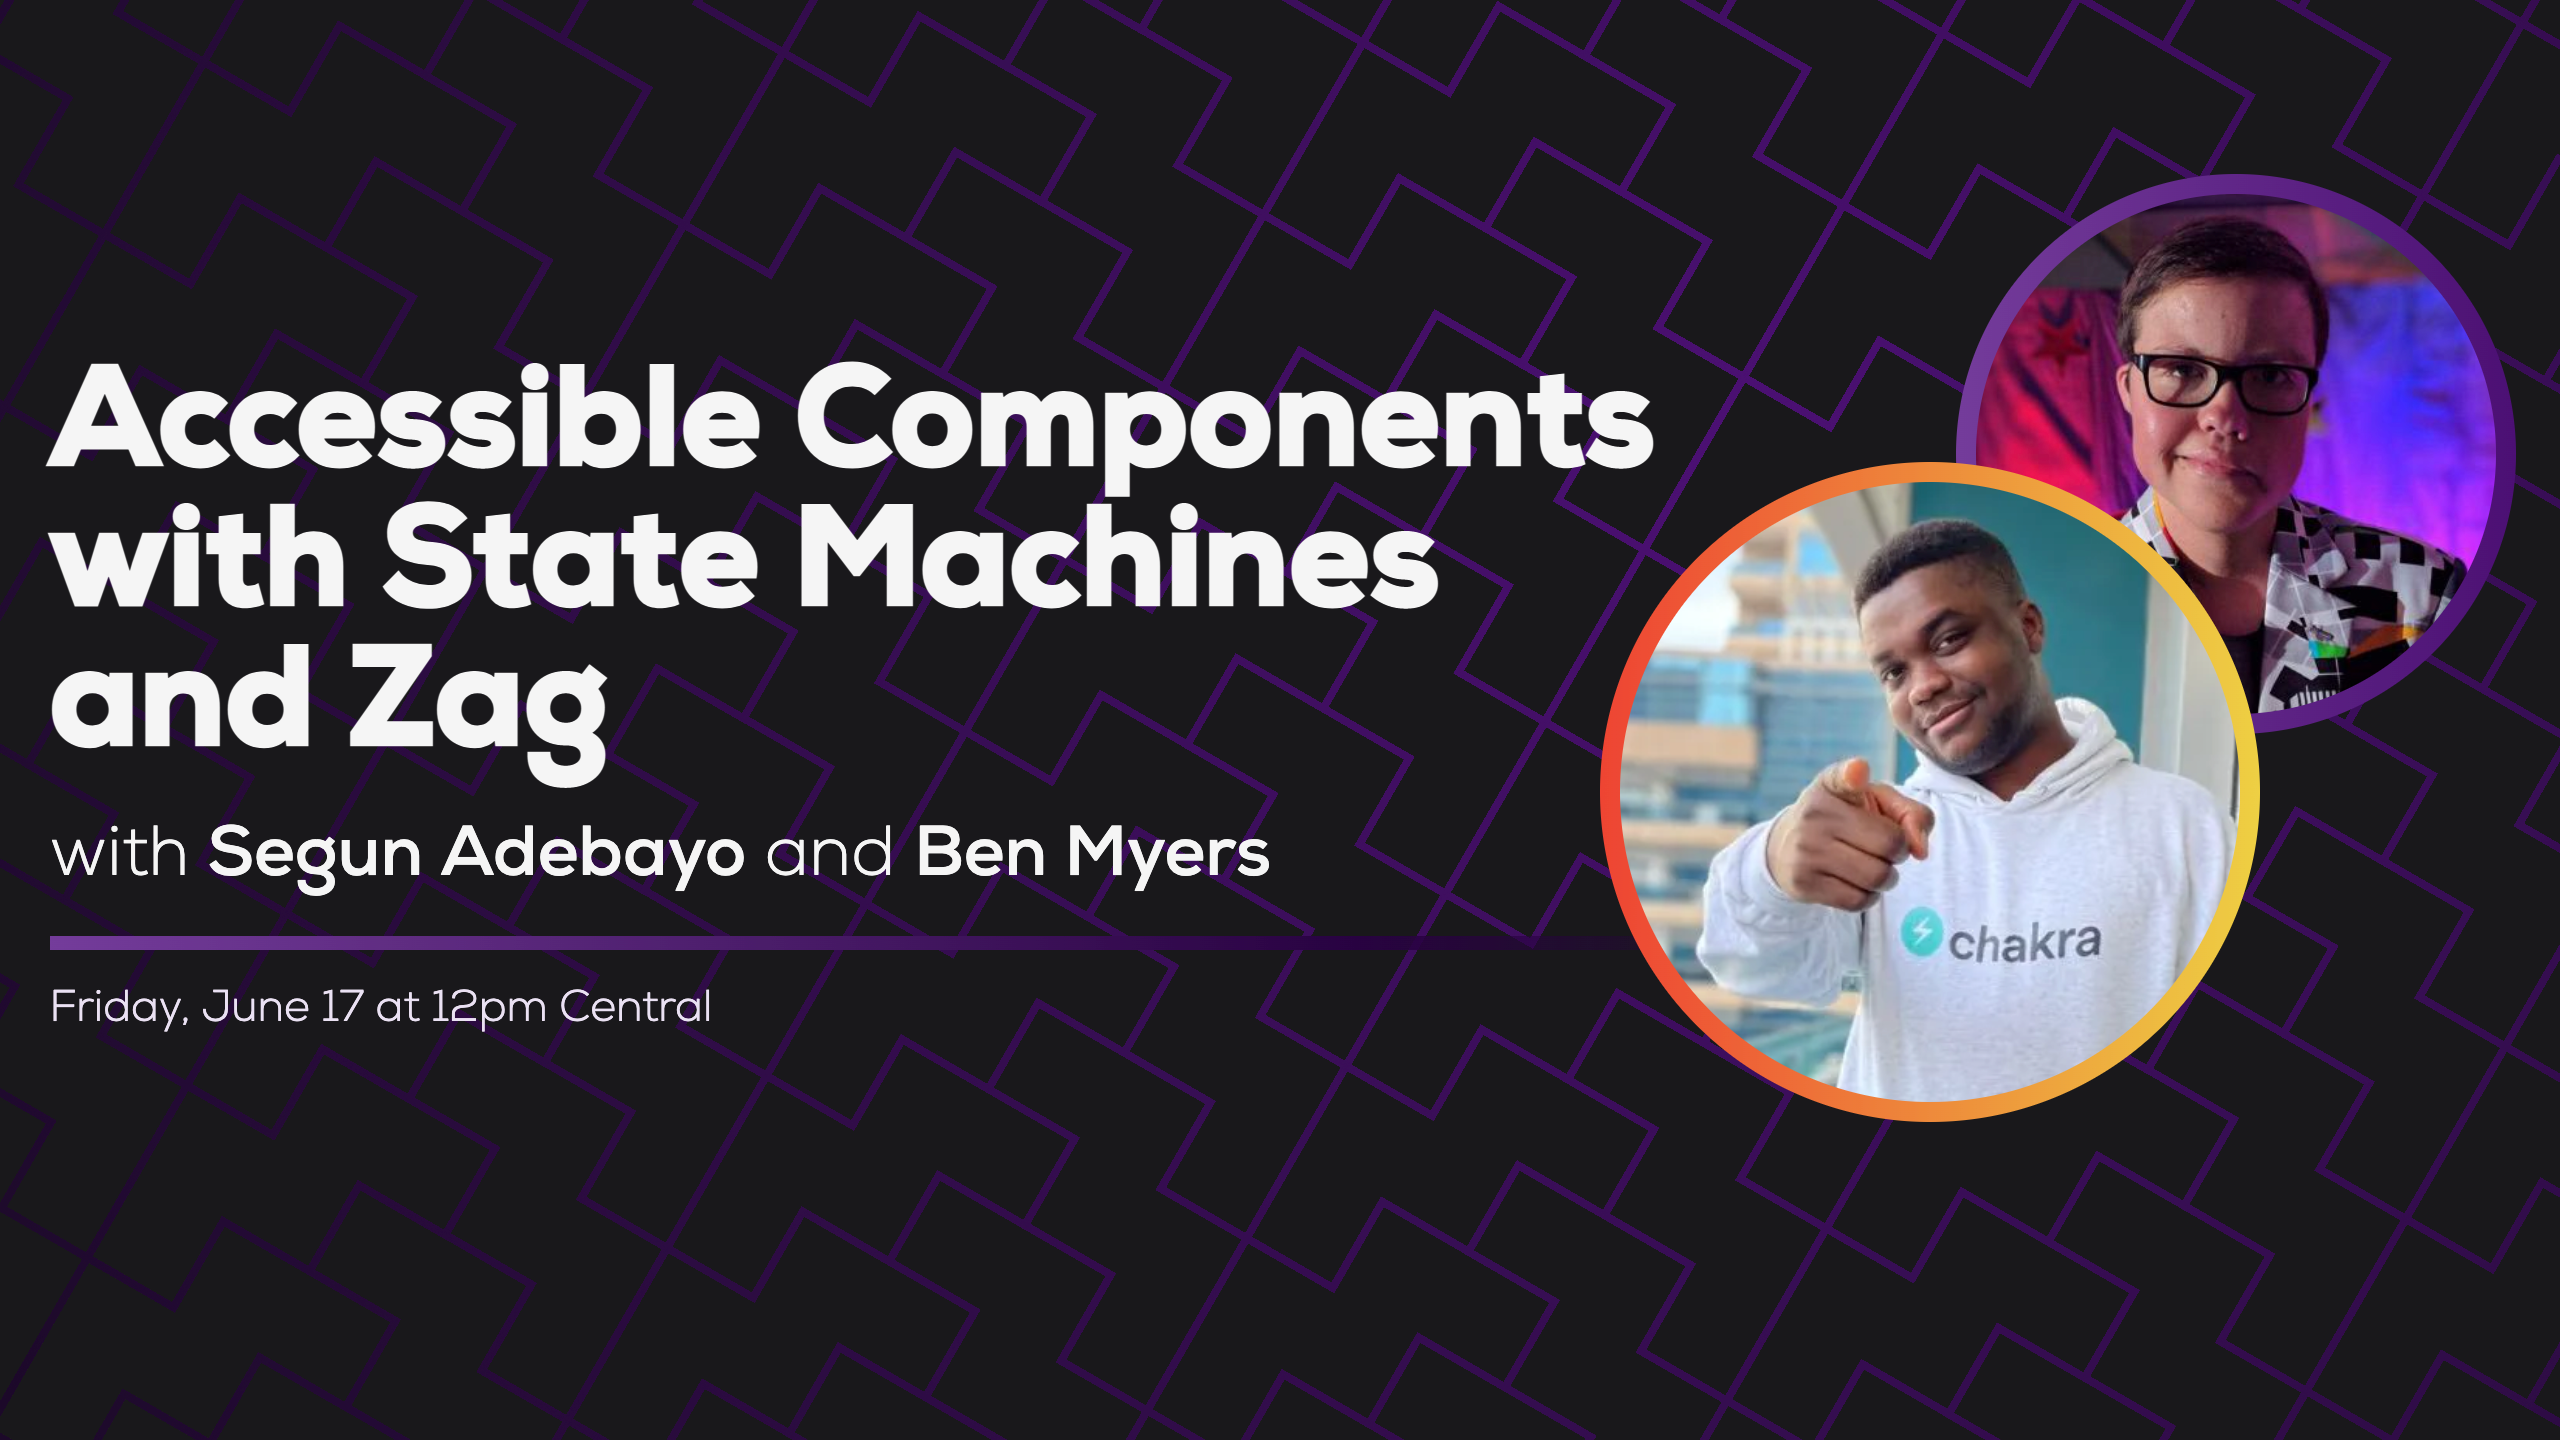
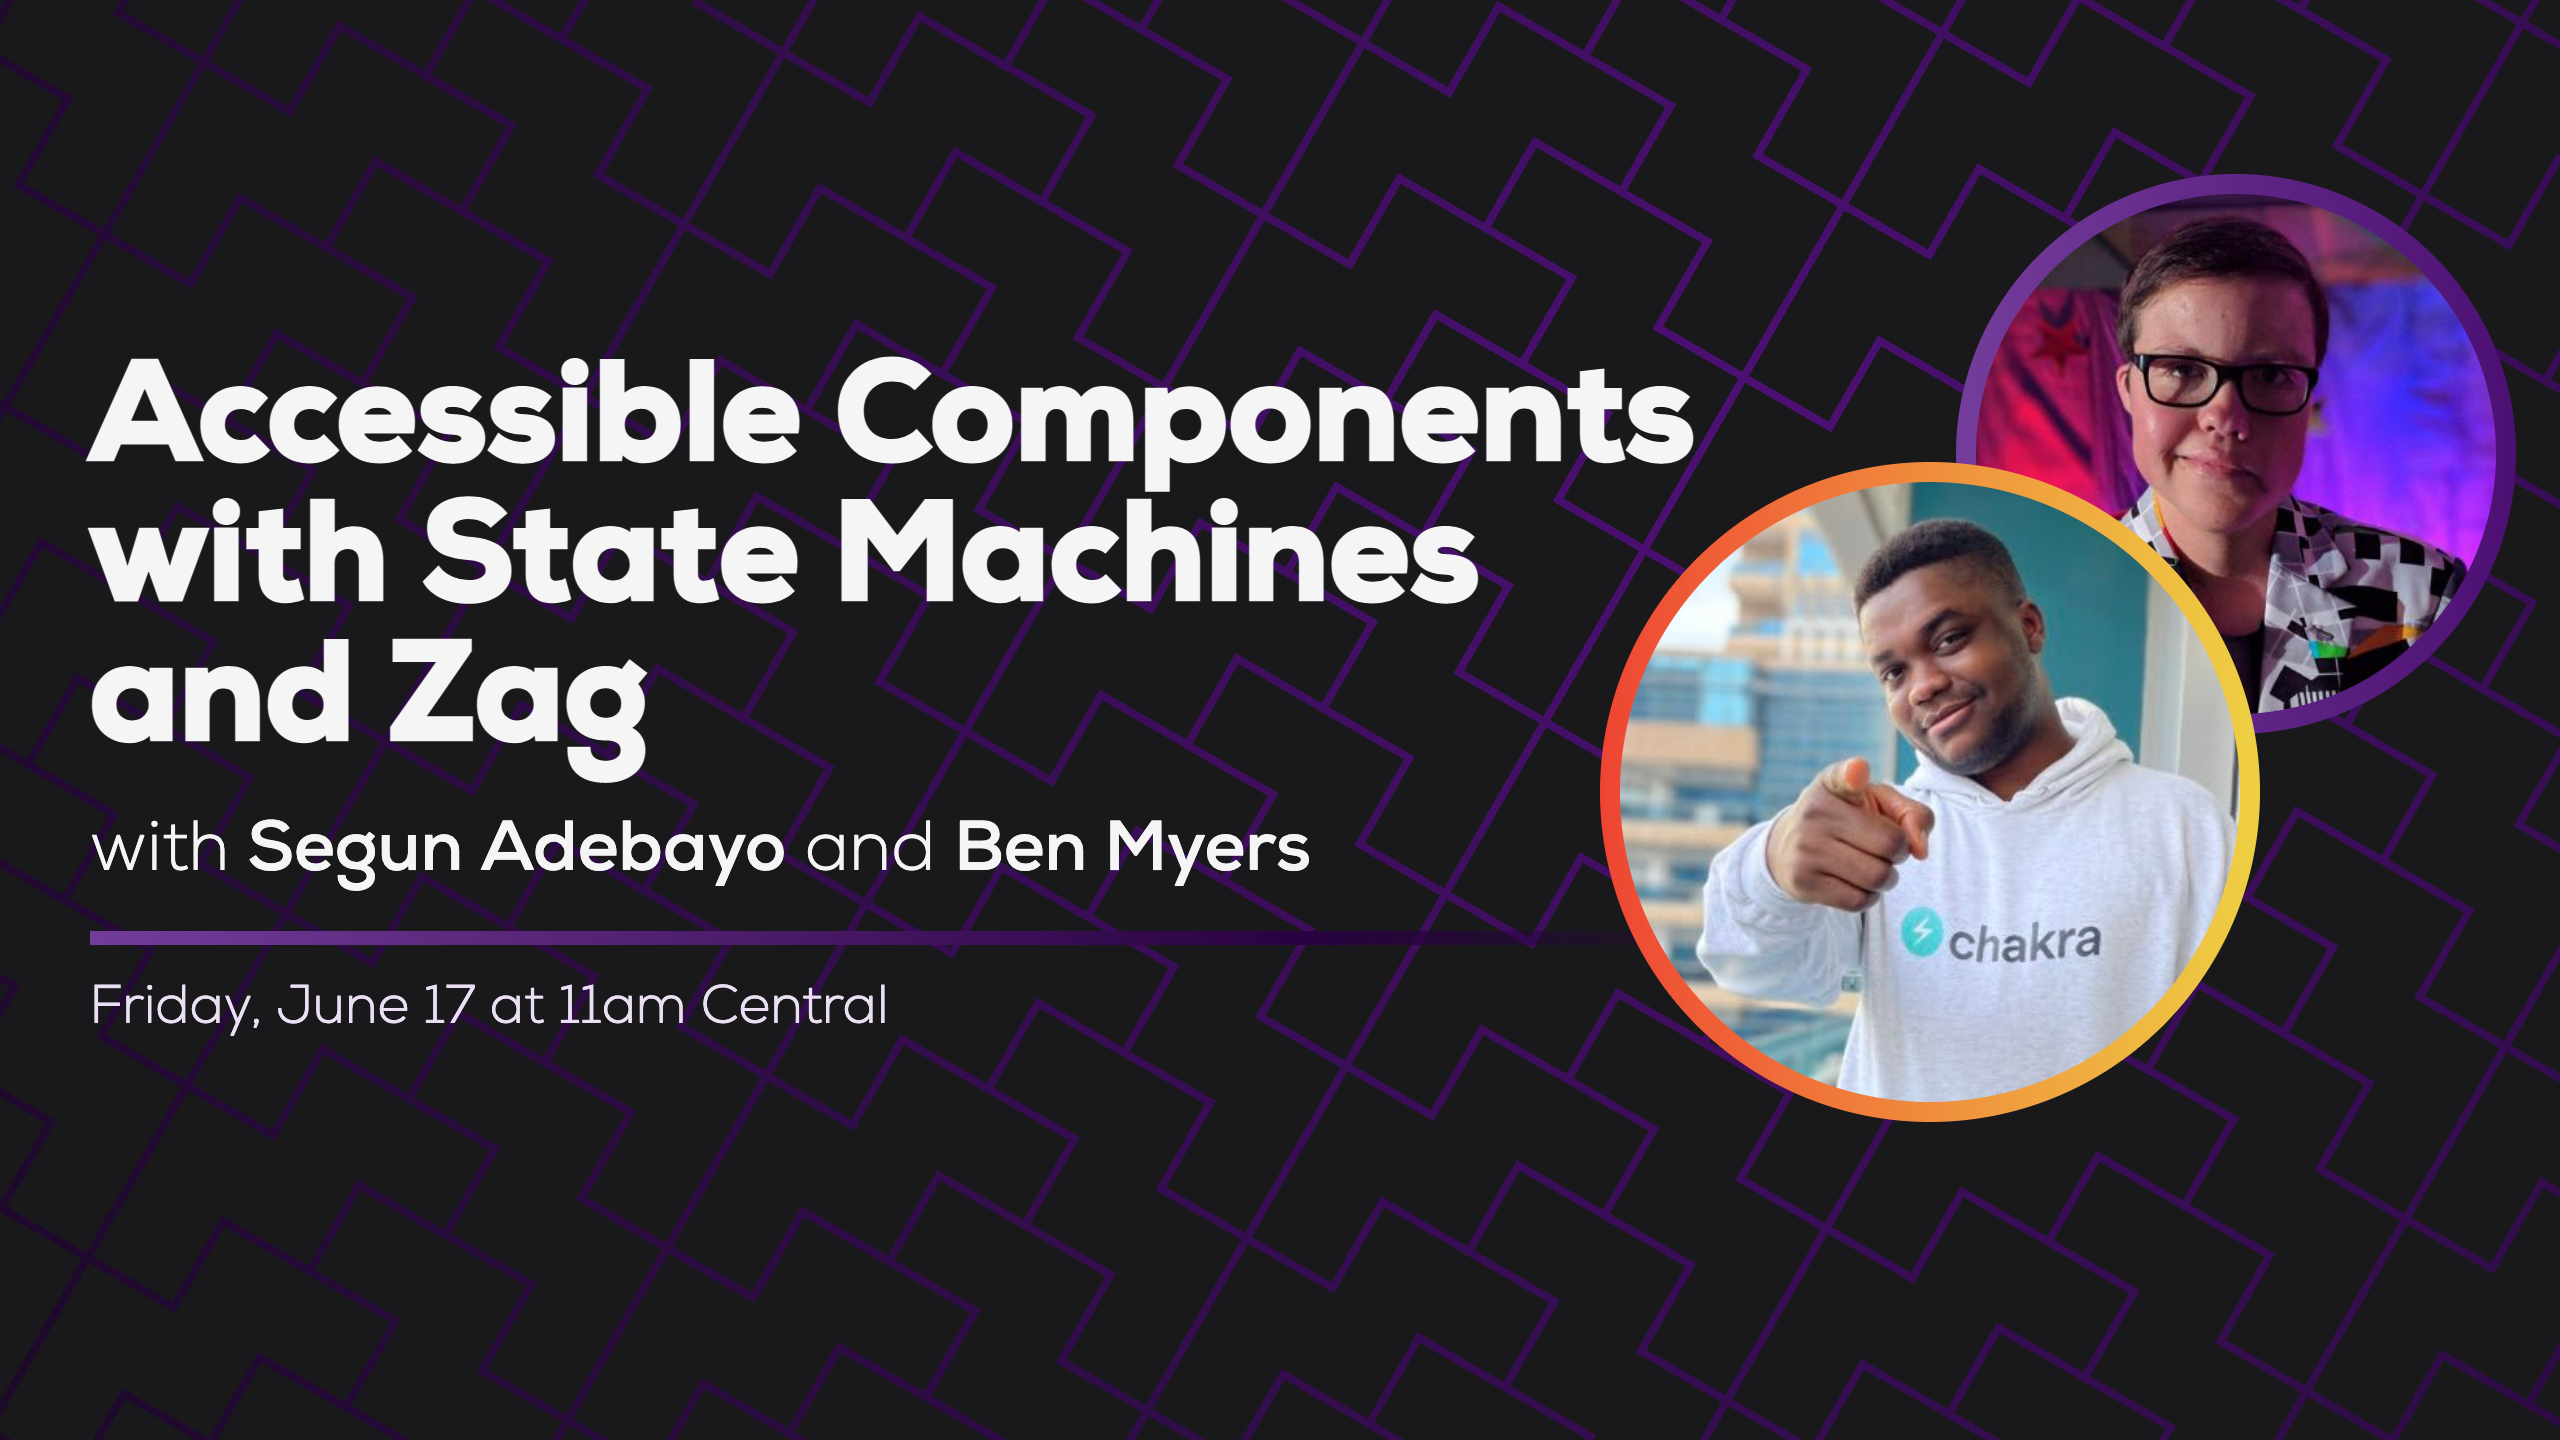
Correct Zag stream

Changed region(s): [[0.0, 0.25, 0.6875, 0.7188], [0.375, 0.6562, 0.4375, 0.6875]]

diff --git a/src/streams/2022-06-17-zag.md b/src/streams/2022-06-17-zag.md
@@ -4,7 +4,7 @@ thumbnailTitle: Accessible Components with State Machines and Zag
 hosts:
   - Ben Myers
   - Segun Adebayo
-timeOfDay: 12pm
+timeOfDay: 11am
 tags:
   - Web Accessibility
   - Frameworks
